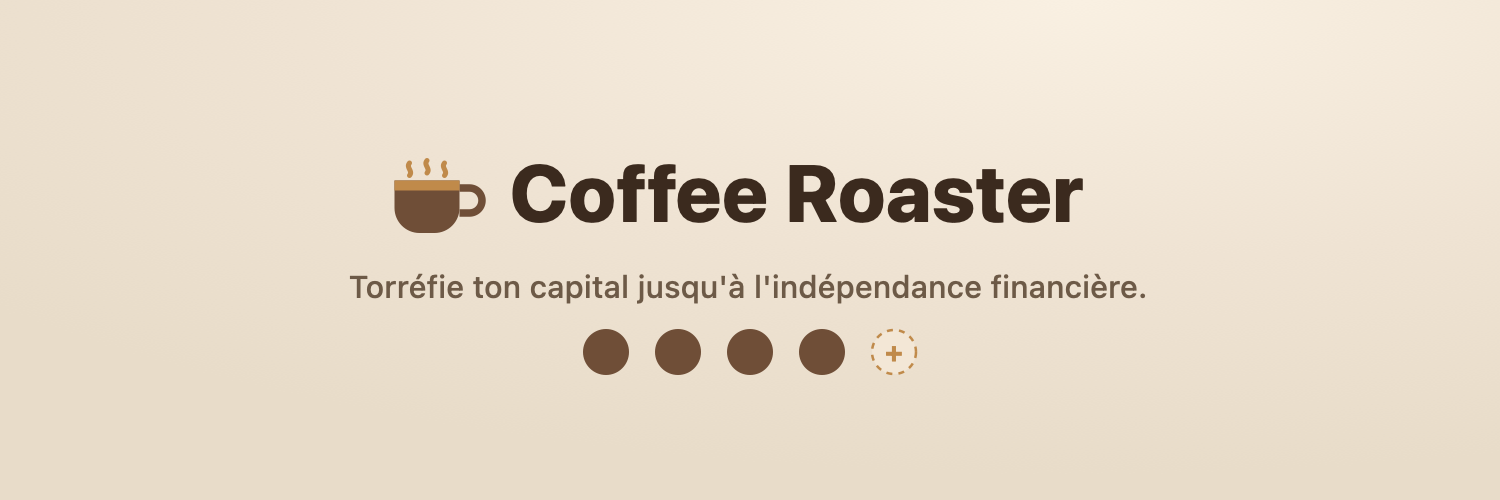
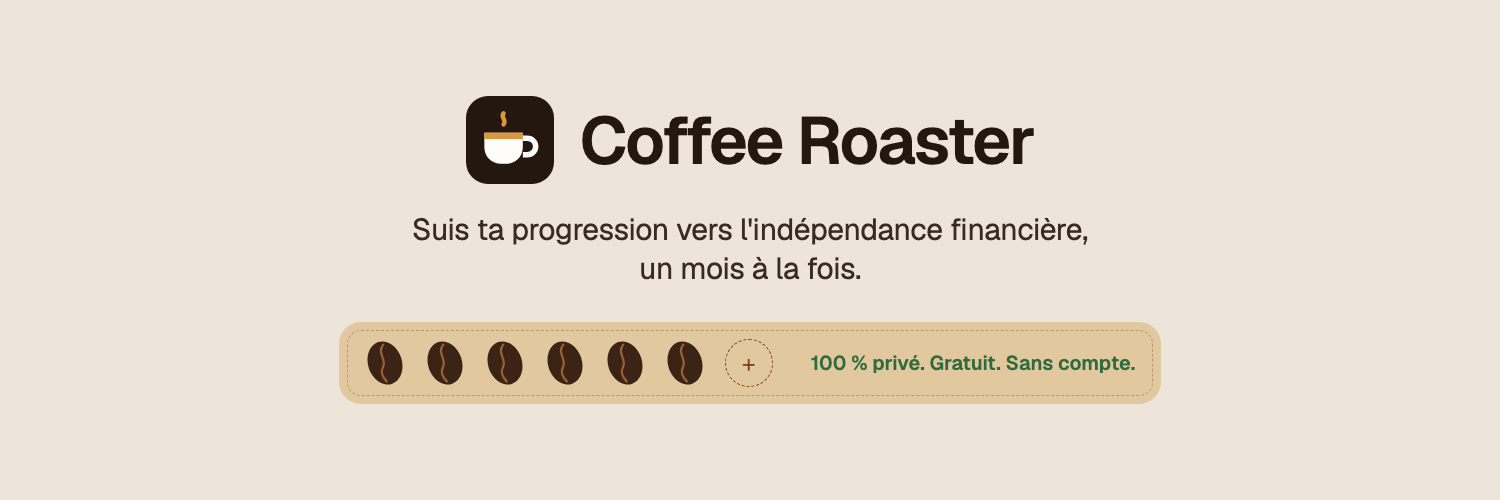
Visuels de partage : aperçu versionné, icône Android adaptative, Buy Me a Coffee à la charte
- og:image / twitter:image / JSON-LD → og.png?v=2 pour contourner le cache d'aperçu de WhatsApp, Facebook, LinkedIn, Slack ; ajout de og:image:alt et twitter:image:alt
- manifest : icon-512 déclarée aussi « maskable » (le dessin tient dans la zone sûre Android)
- marketing/ : avatar et bannière Buy Me a Coffee refaits dans la charte actuelle (l'ancienne bannière affichait encore « Torréfie ton capital »)

Changed region(s): [[0.2453, 0.18, 0.736, 0.48], [0.2147, 0.63, 0.7973, 0.81], [0.2147, 0.51, 0.7667, 0.6]]

diff --git a/public/index.html b/public/index.html
@@ -24,11 +24,13 @@
 <meta property="og:description" content="Track your progress toward financial independence, loyalty-card style. 100% private, no account.">
 <meta property="og:type" content="website">
 <meta property="og:url" content="https://getcoffeeroaster.com/">
-<meta property="og:image" content="https://getcoffeeroaster.com/og.png">
+<meta property="og:image" content="https://getcoffeeroaster.com/og.png?v=2">
 <meta property="og:image:width" content="1200">
 <meta property="og:image:height" content="630">
+<meta property="og:image:alt" content="Coffee Roaster logo and a loyalty card with six roasted coffee beans: track your progress toward financial independence, one month at a time.">
 <meta name="twitter:card" content="summary_large_image">
-<meta name="twitter:image" content="https://getcoffeeroaster.com/og.png">
+<meta name="twitter:image" content="https://getcoffeeroaster.com/og.png?v=2">
+<meta name="twitter:image:alt" content="Coffee Roaster logo and a loyalty card with six roasted coffee beans: track your progress toward financial independence, one month at a time.">
 <link rel="canonical" href="https://getcoffeeroaster.com/">
 <script type="application/ld+json">
 {
@@ -39,7 +41,7 @@
   "description": "Track your progress toward financial independence, loyalty-card style. 100% private: your data stays in your browser, no account, no server.",
   "applicationCategory": "FinanceApplication",
   "operatingSystem": "Any (web browser)",
-  "image": "https://getcoffeeroaster.com/og.png",
+  "image": "https://getcoffeeroaster.com/og.png?v=2",
   "offers": {
     "@type": "Offer",
     "price": "0",
